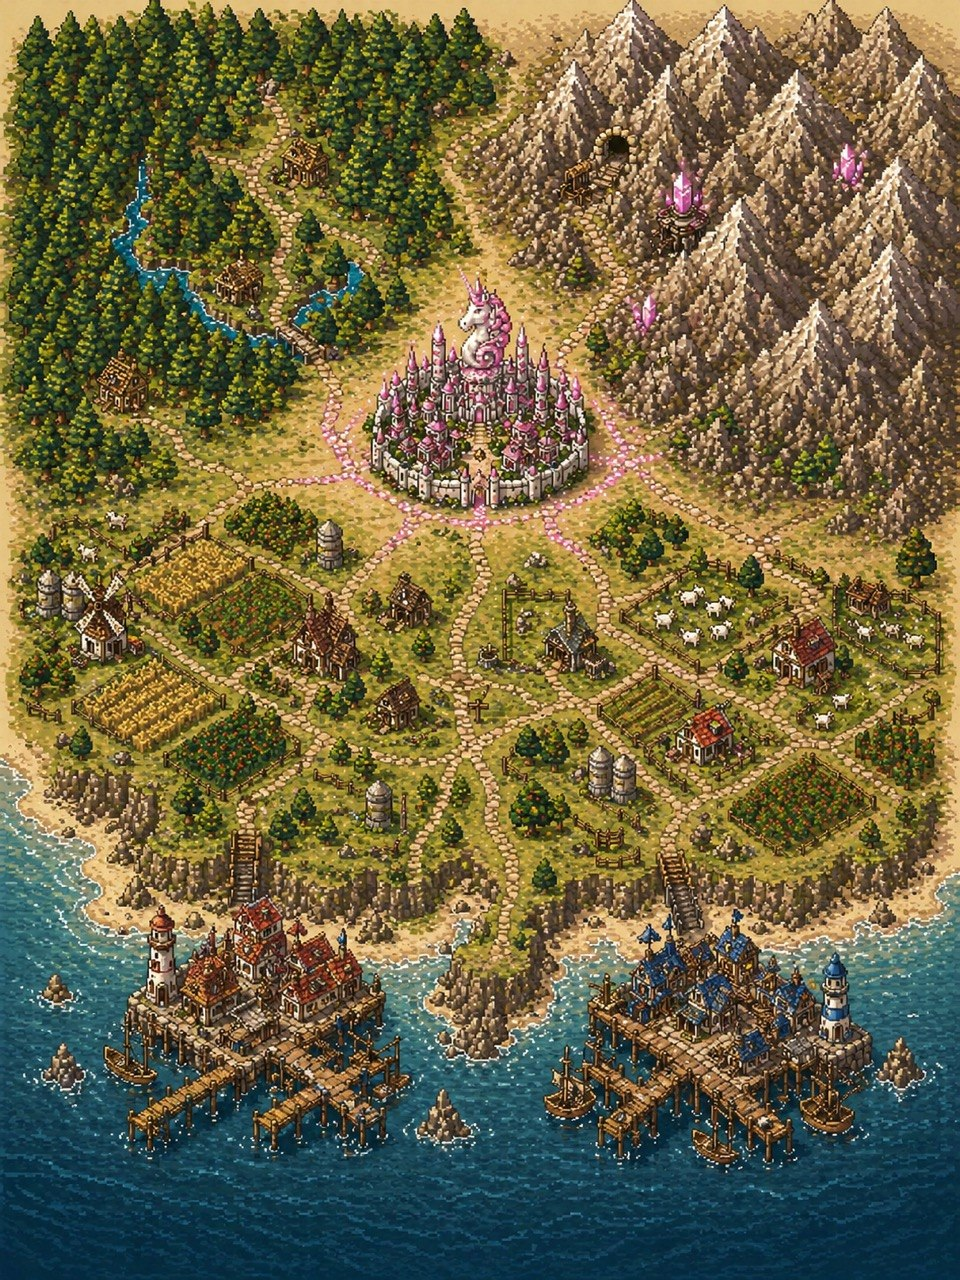
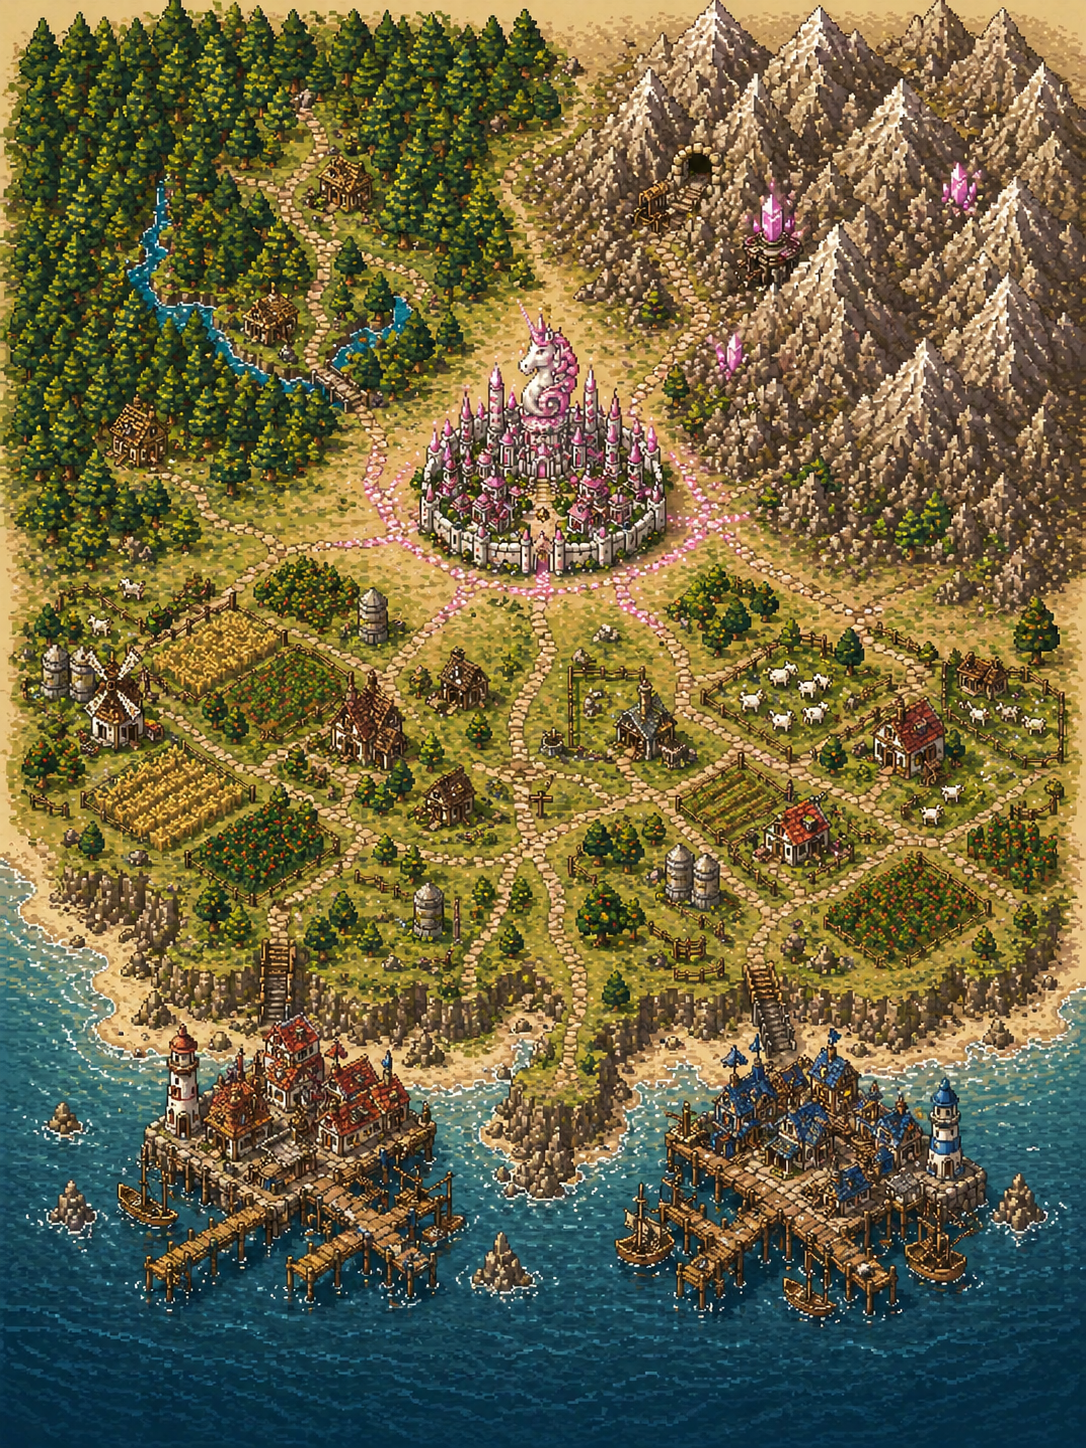
fix(map): swap to full-res 1086x1448 PNG + correct polygon scale math
Liam followup: the 960x1280 JPEG used in the prior commit was a
Telegram-compressed thumbnail. Full-res PNG (delivered as document) is
actually 1086x1448 — same height as the old 814x1448 map, just wider.
That makes more sense given the directive to expand farms/forest/
mountains: the south extent stays put, you gain ~270 horizontal pixels
on the sides.

- Swap world-map.png to the 1086x1448 PNG
- MAP_WIDTH=1086, MAP_HEIGHT=1448 (height back to old value)
- Re-scale all polygons by sx=1.334 horizontal-only, sy=1.0 (no vertical
  scaling needed). The +40px inward push on forest/mountains/west-farms/
  east-farms edges per the Liam directive is preserved.
- REGION_VISUAL_AREAS rx scaled by 1.334; ry restored to pre-shrink values
  (since height didn't change). Widened regions get +20 rx bonus.

SHOW_REGION_POLYGONS still true — Liam can iterate the polygon coords
visually with the overlay on, then flip false before tagging.

diff --git a/apps/web/src/WorldMap.tsx b/apps/web/src/WorldMap.tsx
@@ -26,8 +26,8 @@ import {
 // World dimensions used by pixi-viewport for pan/clamp/center math.
 // Matches the actual hand-curated bg PNG (apps/web/src/assets/world-map.png)
 // at native resolution. The viewport scales/pans this world inside the screen.
-const MAP_WIDTH = 960;
-const MAP_HEIGHT = 1280;
+const MAP_WIDTH = 1086;
+const MAP_HEIGHT = 1448;
 const WORLD_WIDTH = MAP_WIDTH;
 const WORLD_HEIGHT = MAP_HEIGHT;
 
@@ -164,96 +164,96 @@ type LiveClansmanMarker = {
 const REF_W = MAP_WIDTH;
 const REF_H = MAP_HEIGHT;
 
-// FIRST-PASS region polygons for 960x1280 map. Strategy:
-//   1. Scale old polygon coords by sx = 960/814 ≈ 1.179, sy = 1280/1448 ≈ 0.884.
-//   2. For forest / mountains / west-farms / east-farms, additionally widen
-//      the INWARD-FACING edges by +30..+45 px so they read as visibly larger
-//      on the new map (per Liam directive: those four regions want to be
-//      wider; unicorn-town, docks, deep-sea keep scale-only sizing).
-//   3. Region centers (nx/ny) are scaled-old-centers with a small inward nudge
-//      for the four widened regions; they anchor the clan zone halos and the
-//      region labels.
-// Toggle SHOW_REGION_POLYGONS (above) to render the polygons as colored
-// overlays for visual tuning, then iterate coords here.
+// FIRST-PASS region polygons for 1086x1448 map. Strategy:
+//   1. Scale old (814x1448) polygon coords by sx = 1086/814 ≈ 1.334 horizontally
+//      only — the new map kept the same height (1448), it's just wider.
+//   2. For forest / mountains / west-farms / east-farms, additionally widen the
+//      INWARD-FACING edges by ±40 px so they read as visibly larger on the new
+//      map (per Liam directive: those four regions want to be wider;
+//      unicorn-town, docks, deep-sea keep scale-only sizing).
+//   3. Region centers (nx/ny) are scaled-old-centers — they anchor the clan
+//      zone halos and the region labels.
+// Toggle SHOW_REGION_POLYGONS (above) to render the polygons as colored overlays
+// for visual tuning, then iterate coords here.
 const REGIONS: RegionDef[] = [
   {
     id: 'forest',
     name: 'Forest',
-    nx: 268 / REF_W,
-    ny: 217 / REF_H,
+    nx: 280 / REF_W,
+    ny: 245 / REF_H,
     color: 0x228822,
-    polygon: [[0, 0], [512, 0], [600, 146], [525, 314], [366, 442], [0, 491]],
+    polygon: [[0, 0], [573, 0], [673, 165], [600, 355], [380, 500], [0, 555]],
   },
   {
     id: 'mountains',
     name: 'Mountains',
-    nx: 735 / REF_W,
-    ny: 217 / REF_H,
+    nx: 854 / REF_W,
+    ny: 245 / REF_H,
     color: 0x888888,
-    polygon: [[603, 0], [960, 0], [960, 451], [778, 473], [579, 371], [556, 225], [532, 119]],
+    polygon: [[687, 0], [1086, 0], [1086, 510], [880, 535], [700, 420], [634, 255], [607, 135]],
   },
   {
     id: 'unicorn-town',
     name: 'Unicorn Town',
-    nx: 501 / REF_W,
-    ny: 442 / REF_H,
+    nx: 567 / REF_W,
+    ny: 500 / REF_H,
     color: 0xcc88cc,
-    polygon: [[472, 331], [601, 331], [719, 442], [631, 517], [484, 517], [419, 460]],
+    polygon: [[533, 375], [681, 375], [814, 500], [714, 585], [547, 585], [474, 520]],
   },
   {
     id: 'west-farms',
     name: 'West Farms',
-    nx: 268 / REF_W,
-    ny: 672 / REF_H,
+    nx: 280 / REF_W,
+    ny: 760 / REF_H,
     color: 0xaacc44,
-    polygon: [[0, 491], [434, 460], [546, 672], [394, 849], [0, 871]],
+    polygon: [[0, 555], [480, 520], [607, 760], [440, 960], [0, 985]],
   },
   {
     id: 'east-farms',
     name: 'East Farms',
-    nx: 717 / REF_W,
-    ny: 672 / REF_H,
+    nx: 834 / REF_W,
+    ny: 760 / REF_H,
     color: 0x88bb33,
-    polygon: [[586, 552], [960, 504], [960, 871], [586, 857], [456, 694]],
+    polygon: [[674, 625], [1086, 570], [1086, 985], [674, 970], [527, 785]],
   },
   {
     id: 'west-docks',
     name: 'West Docks',
-    nx: 259 / REF_W,
-    ny: 986 / REF_H,
+    nx: 293 / REF_W,
+    ny: 1115 / REF_H,
     color: 0x336688,
-    polygon: [[124, 871], [430, 871], [460, 999], [307, 1123], [112, 1092], [65, 959]],
+    polygon: [[140, 985], [487, 985], [520, 1130], [347, 1270], [127, 1235], [73, 1085]],
   },
   {
     id: 'east-docks',
     name: 'East Docks',
-    nx: 772 / REF_W,
-    ny: 986 / REF_H,
+    nx: 874 / REF_W,
+    ny: 1115 / REF_H,
     color: 0x336688,
-    polygon: [[660, 871], [960, 871], [960, 1092], [767, 1114], [637, 1003]],
+    polygon: [[747, 985], [1086, 985], [1086, 1235], [867, 1260], [720, 1135]],
   },
   {
     id: 'deep-sea',
     name: 'Deep Sea',
-    nx: 590 / REF_W,
-    ny: 968 / REF_H,
+    nx: 667 / REF_W,
+    ny: 1095 / REF_H,
     color: 0x1144aa,
-    polygon: [[478, 897], [631, 897], [684, 1012], [590, 1087], [460, 1030]],
+    polygon: [[540, 1015], [714, 1015], [774, 1145], [667, 1230], [520, 1165]],
   },
 ];
 
 // Halo / visual-area sizes (used for region focus / select rings). Scaled to
-// the new 960x1280 dimensions: rx ~ *1.179, ry ~ *0.884, plus +15 rx for the
-// four widened regions to match the polygon expansion.
+// the new 1086x1448 dimensions: rx ~ *1.334 (horizontal-only), ry unchanged,
+// plus +20 rx for the four widened regions to match the polygon expansion.
 const REGION_VISUAL_AREAS: Record<string, { rx: number; ry: number }> = {
-  forest: { rx: 157, ry: 62 },
-  mountains: { rx: 174, ry: 67 },
-  'unicorn-town': { rx: 109, ry: 55 },
-  'west-farms': { rx: 180, ry: 76 },
-  'east-farms': { rx: 192, ry: 80 },
-  'west-docks': { rx: 139, ry: 67 },
-  'east-docks': { rx: 139, ry: 67 },
-  'deep-sea': { rx: 212, ry: 80 },
+  forest: { rx: 180, ry: 70 },
+  mountains: { rx: 200, ry: 76 },
+  'unicorn-town': { rx: 124, ry: 62 },
+  'west-farms': { rx: 207, ry: 86 },
+  'east-farms': { rx: 220, ry: 90 },
+  'west-docks': { rx: 157, ry: 76 },
+  'east-docks': { rx: 157, ry: 76 },
+  'deep-sea': { rx: 240, ry: 90 },
 };
 
 // Clan ↔ archetype mapping (style/bandit-archetype-sprites): each clan gets a portrait